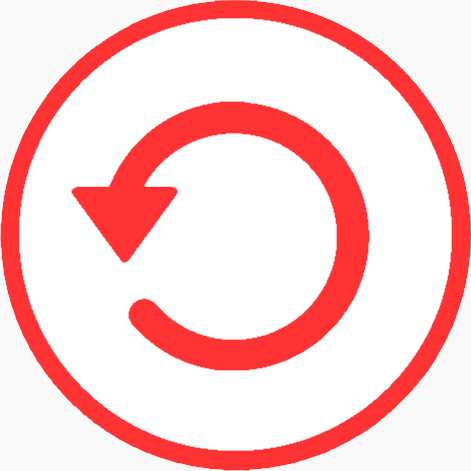
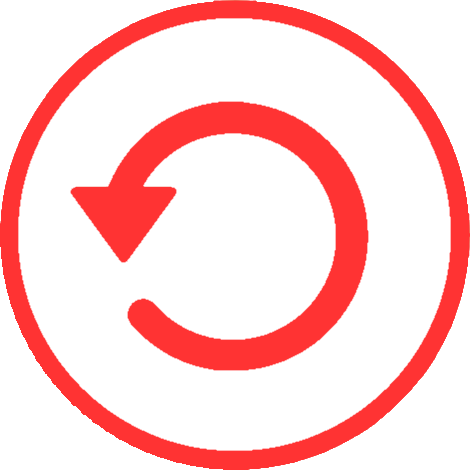
Radio buttons look a bit better and undobutton doesn't have corners anymore

diff --git a/public/menu/sidenav/sidenav.html b/public/menu/sidenav/sidenav.html
@@ -2,22 +2,34 @@
     <a href="javascript:void(0)" class="closebtn" onclick="closeNav()">&times;</a>
     <ul>
         <li class="submenu">
+            <a href="javascript:void(0)" onclick="openNewGamePopUp()">New Game</a>
+        </li>
+        <li class="submenu">
             <a href="#">Choose AI difficulty</a>
             <ul class="dropdown">
                 <li>
-                    <div class="aiDifficulty" id="aiDif">
-                        <input type="radio" id="r1" name="difficulty" value="1">
-                        <label for="r1">Beginner</label><br>
+                    <input type="radio" id="r1" name="difficulty" value="1">
+                    <label for="r1">Beginner</label>
 
-                        <input type="radio" id="r2" name="difficulty" value="2" checked>
-                        <label for="r2">Easy</label><br>
+                    <div class="check"></div>
+                </li>
+                <li>
+                    <input type="radio" id="r2" name="difficulty" value="2" checked>
+                    <label for="r2">Easy</label>
 
-                        <input type="radio" id="r3" name="difficulty" value="4">
-                        <label for="r3">Medium</label><br>
+                    <div class="check"></div>
+                </li>
+                <li>
+                    <input type="radio" id="r3" name="difficulty" value="4">
+                    <label for="r3">Medium</label>
 
-                        <input type="radio" id="r4" name="difficulty" value="6">
-                        <label for="r4">Hard</label>
-                    </div>
+                    <div class="check"></div>
+                </li>
+                <li>
+                    <input type="radio" id="r4" name="difficulty" value="6">
+                    <label for="r4">Hard</label>
+
+                    <div class="check"></div>
                 </li>
             </ul>
         </li>
@@ -27,6 +39,8 @@
                 <li>
                     <input type="radio" id="s1" name="mode" value="play" checked>
                     <label for="s1">Player versus AI</label><br>
+
+                    <div class="check"></div>
                 </li>
                 <!--
                 <li>
@@ -41,6 +55,8 @@
             <ul class="dropdown">
                 <li>
                     <a target="_blank" href="https://books.google.fi/books?id=-R3vDQAAQBAJ&printsec=frontcover&dq=xoliba&hl=fi&sa=X&ved=0ahUKEwjpmOfLjKnUAhWCOSwKHWUyC5YQ6AEIJzAA#v=onepage&q=xoliba&f=true">Manual (in finnish)</a>
+                </li>
+                <li>
                     <a target="_blank" href="http://www.nestorgames.com/rulebooks/XOLIBA_EN.pdf">Manual (in english)</a>
                 </li>
             </ul>

diff --git a/public/menu/sidenav/sidenav.css b/public/menu/sidenav/sidenav.css
@@ -13,27 +13,31 @@
     z-index: 20;
 }
 
-.sidenav .submenu {
+.sidenav a:hover, .offcanvas a:focus{
+    color: #f1f1f1;
+}
+
+.submenu {
     padding: 8px 8px 8px 8px;
     text-decoration: none;
     font-size: 25px;
     display: block;
     transition: 0.3;
-    position: relative
+    position: relative;
+    white-space: nowrap;
 }
 
 .submenu a {
     color: #818181;
-    white-space: nowrap;
 }
 
-.submenu ul {
+.dropdown {
     background-color: #252525;
     display: none;
 }
 
 /*todo sidenav dropdowns to same format*/
-.submenu ul li {
+.dropdown li {
     position: relative;
     margin: 0;
     display: block;
@@ -41,23 +45,79 @@
     font-size: 18px;
 }
 
+.dropdown:last-child {
+    padding-bottom: 8px;
+}
+
+.dropdown li:hover .check {
+    border: 2px solid #F1F1F1;
+}
+
+.dropdown li:hover label {
+   color: #F1F1F1
+}
+
+.check {
+    display: block;
+    position: absolute;
+    border: 2px solid #818181;
+    border-radius: 100%;
+    width: 20px;
+    height: 20px;
+    left: 5px;
+    top: 8px;
+    transition: border .25s linear;
+    -webkit-transition: border .25s linear;
+}
+
+.check::before {
+    display: block;
+    position: absolute;
+	content: '';
+    border-radius: 100%;
+    height: 16px;
+    width: 16px;
+    top: 2px;
+	left: 2px;
+    margin: auto;
+	transition: background 0.25s linear;
+	-webkit-transition: background 0.25s linear;
+}
+
+input[type=radio]:checked ~ .check {
+    border: 2px solid #FF3333;
+}
+
+input[type=radio]:checked ~ .check::before{
+    background: #FF3333;
+}
+
+input[type=radio]:checked ~ label {
+    color: #FF3333;
+}
+
 .dropdown label {
-    color: whitesmoke;
-    padding: 2px 11px;
-    font-size: 16px;
+    display: inline-block;
+    padding-left: 30px;
+    color: #818181;
+    font-size: 20px;
     cursor: pointer;
+    transition: all .25s linear;
+    -webkit-transition: all .25s linear;
 }
 
 input[type="radio"] {
-    margin: 10px;
+    display: inline-block;
+    visibility: hidden;
+}
+
+.dropdown a {
+    padding-left: 8px;
 }
 
 
-.sidenav a:hover, .offcanvas a:focus{
-    color: #f1f1f1;
-}
 
-.sidenav .closebtn {
+.closebtn {
     position: absolute;
     top: 0;
     right: 25px;
@@ -71,4 +131,8 @@ ul {
     list-style-type: none;
     margin: 0;
     padding: 0;
+}
+
+a {
+    text-decoration: none;
 }

diff --git a/public/menu/base.css b/public/menu/base.css
@@ -29,13 +29,19 @@ button {
     width: 15%;
     height: 5%;
     white-space: nowrap;
-    overflow-x: hidden;
+    overflow: hidden;
     z-index: 5;
     transition: all 0s ease;
 }
 
 #undo, #GiveUp, #StartRound, #Surrender {
     display: none;
+}
+
+#undo {
+    background-color: Transparent;
+    background-repeat: no-repeat;
+    outline: none;
 }
 
 button:hover{
@@ -46,7 +52,6 @@ button:hover{
 
 #undo:hover {
     transition: 1s;
-    background-color: #F8F8F8;
     -webkit-transform: rotateZ(-360deg);
     -ms-transform: rotateZ(-360deg);
     transform: rotateZ(-360deg);

diff --git a/public/menu/newGamePopup/newgamepopup.js b/public/menu/newGamePopup/newgamepopup.js
@@ -1,4 +1,5 @@
 function openNewGamePopUp(){
+    closeNav();
     let radios = document.getElementsByName("mode");
     let gameMode;
     for (let i = 0, length = radios.length; i < length; i++) {
@@ -13,4 +14,8 @@ function openNewGamePopUp(){
     } else {
         document.getElementById("newWatchGamePopUp").style.display = 'block';
     }
+}
+
+function closeNewGamePopUp(){
+    document.getElementById("newGamePopUp").style.display = 'none';
 }

diff --git a/public/menu/newGamePopup/newGamePopup.html b/public/menu/newGamePopup/newGamePopup.html
@@ -1,4 +1,5 @@
 <div id="newGamePopUp">
+    <a href="javascript:void(0)" class="closebtn" onclick="closeNewGamePopUp()">&times;</a>
     <div id="playIn">
         <p id="limit">Score Limit: </p>
         <input type="number" id="scorelimit" value="50">

diff --git a/public/scripts/index.js b/public/scripts/index.js
@@ -1,5 +1,5 @@
 window.$ = require('jquery');
-require('../menu/indexstyle.css');
+/*require('../menu/indexstyle.css');*/
 
 require('../menu/sidenav/sidenav.js');
 require('../menu/sidenav/submenu.js');

diff --git a/public/menu/narrowscreens.css b/public/menu/narrowscreens.css
@@ -55,7 +55,6 @@
         width: 8vw;
         left: 46vw;
         border: 0;
-        background-color: #F8F8F8;
         transition: all 0s ease;
     }
 
